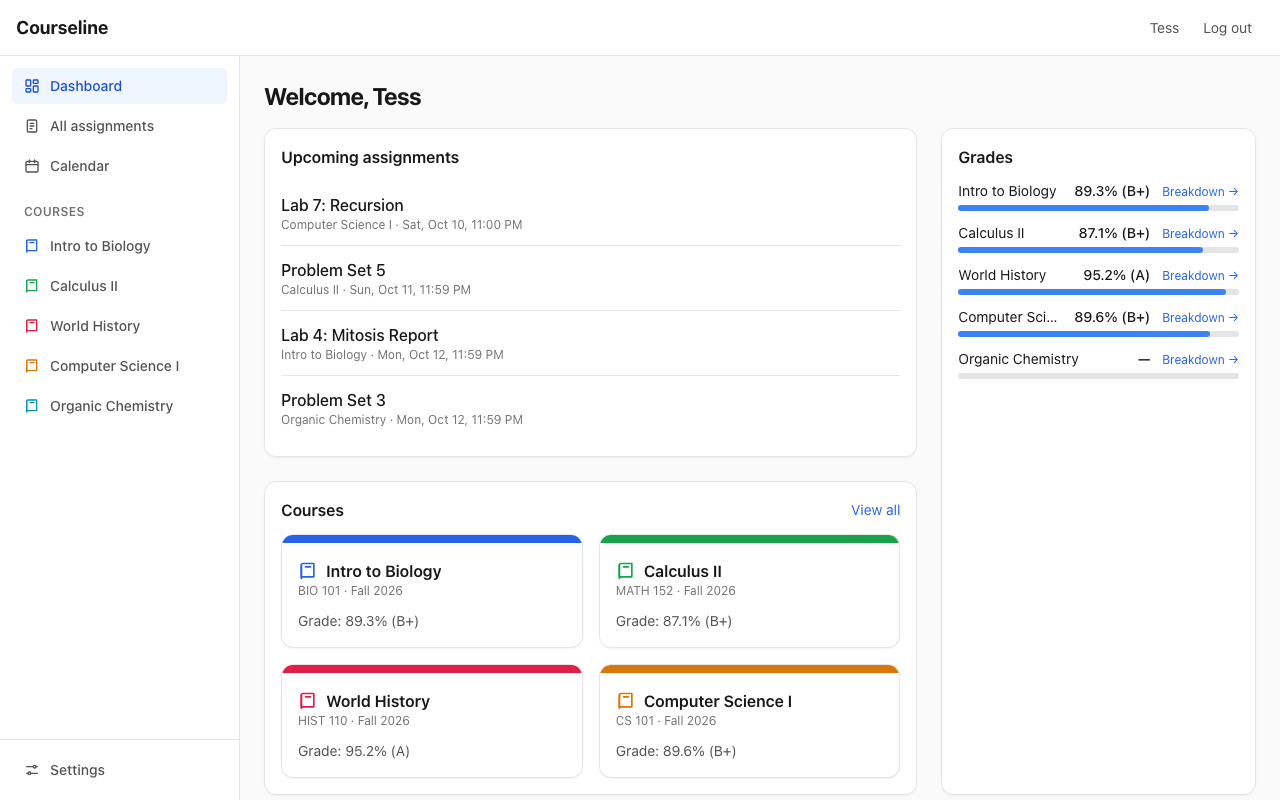
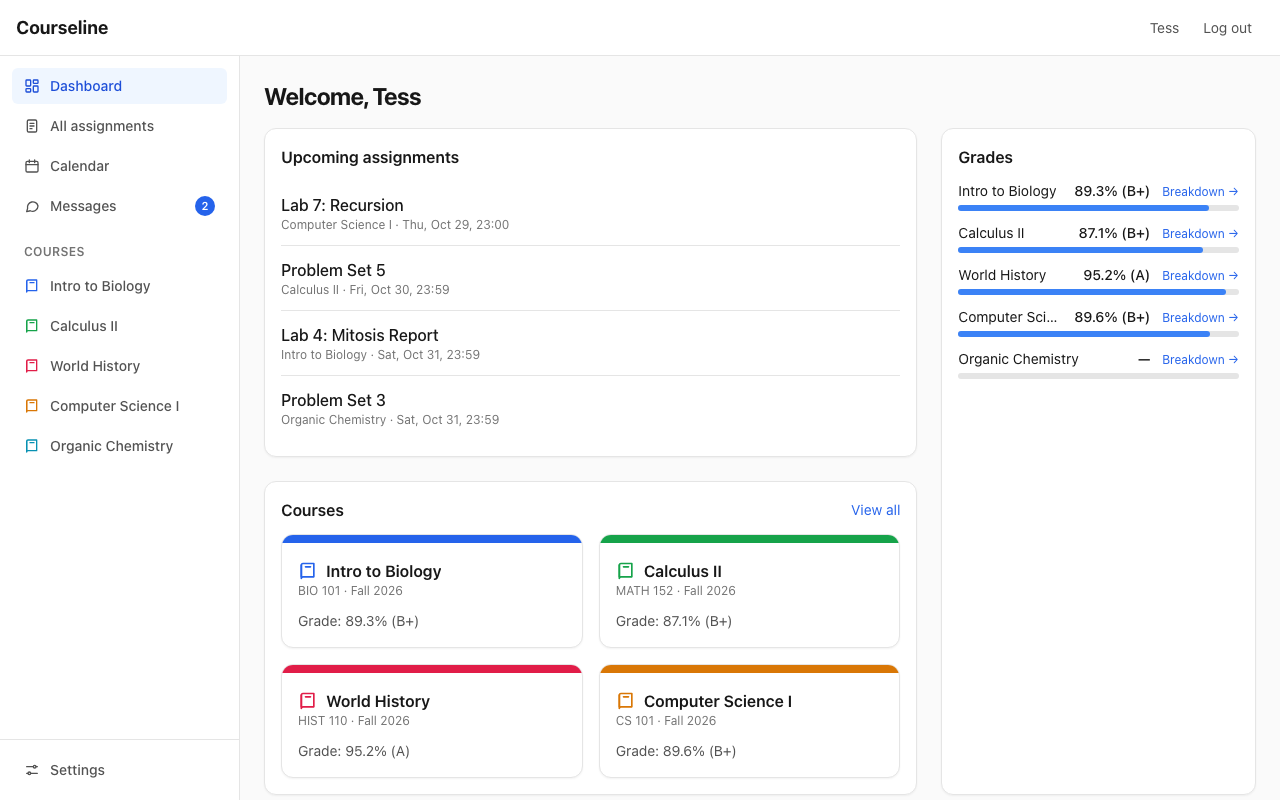
README: retake screenshots, add Messages and spreadsheet viewer, explain the two editions

diff --git a/README.md b/README.md
@@ -18,12 +18,15 @@ second way in. Both have every other feature. The only difference is [`edition.j
 - **Course pages and modules in one list.** Collapsible, reorderable, remembered per course, so a course looks the same
   whether the teacher built it from Pages or from Modules.
 - **In-app file viewer.** PDF, Word, Excel, PowerPoint, images and code open in a viewer with page numbers, typed zoom
-  and an explicit Download button. Nothing downloads unless you press that button.
+  and an explicit Download button. Nothing downloads unless you press that button. Spreadsheets keep their cell
+  colours, fonts, borders, column widths and merged cells, on a white page even in dark mode.
 - **In-depth grades page.** Grade over time, assignment-group breakdown with weights and drop rules, what-if scores
   and a "what do I need to reach X%" calculator.
 - **Messages that feel like texting.** Your Canvas Inbox and sent messages as conversations, each a thread of
-  bubbles with its subject on top; reply with Enter, or start a new message to a course's teachers (Canvas's own
-  "message this teacher" links open it filled in). Works with a token and with the extension.
+  bubbles with its subject on top as the chat name; reply with Enter, attach files (images and files preview inline),
+  or start a new message to a course's teachers and classmates (Canvas's own "message this teacher" links open it
+  filled in). With a token, opening a conversation marks it read and the sidebar shows an unread count. Works with a
+  token and, on `dev`, with the extension.
 - **Dark mode and a custom accent color**, plus a setting to pick which courses to show.
 - **AI export tab in every course**: packs the syllabus, units, pages, assignments and file text into a zip an AI can use as a tutor (stays on your computer).
 - **No access token needed, optionally.** A Chrome-based browser extension (in `extension/`) saves the data your own
@@ -35,11 +38,13 @@ second way in. Both have every other feature. The only difference is [`edition.j
 
 ## Screenshots
 
-Screenshots use made-up course data.
+Screenshots use made-up course data, signed in with a token, so they look the same on `main` and `dev`.
 
-| Course pages and modules in one view | Grades: trend, groups, what-if |
+| Course pages and modules in one view | Grades: trend, groups, class median, what-if |
 |---|---|
 | ![Course pages, dark mode](docs/screenshots/course-pages.png) | ![Grades page](docs/screenshots/grades.png) |
+| **Messages: conversations as chats, with attachments** | **Spreadsheet viewer: the file's own colours and borders** |
+| ![Messages page with a conversation open](docs/screenshots/messages.png) | ![A colour-coded spreadsheet in the in-app viewer, dark mode](docs/screenshots/viewer-xlsx.png) |
 | **PDF viewer** | **PowerPoint viewer** |
 | ![PDF in the in-app viewer](docs/screenshots/viewer-pdf.png) | ![A slide deck in the in-app viewer](docs/screenshots/viewer-slides.png) |
 | **Calendar, colored by course and status** | |
@@ -49,6 +54,8 @@ Developer documentation (architecture, every file, how to change anything, known
 **[DEVELOPER_GUIDE.md](DEVELOPER_GUIDE.md)**.
 
 ## Use it without a token
+
+> **`dev` branch only.** The API-token edition on `main` has no extension support; check out `dev` to use this.
 
 Canvas is making access tokens harder to get, so Courseline can also work from the browser extension in `extension/`.
 It works in Chrome, Arc, Edge, Brave and other Chromium browsers.
@@ -133,8 +140,9 @@ in to Canvas).
 - Each person uses their **own** token. Revoke tokens you no longer need (Settings → Approved Integrations).
 - Never commit `.env`. It is in `.gitignore`.
 - The token is only ever sent to the Canvas address you entered, over https (an `http://` address is upgraded), and
-  never to file storage or any other host. Instructor HTML and spreadsheet cells are sanitized before display.
-- The browser extension keeps nothing until you save your Canvas address, never saves credentials, email addresses
+  never to file storage or any other host. Instructor HTML is sanitized before display; spreadsheet cells and
+  messages are shown as plain text (links only when they are http or https).
+- (`dev` only) The browser extension keeps nothing until you save your Canvas address, never saves credentials, email addresses
   or capability links, and only takes commands from the Courseline app running on `localhost`. The full list of known
   risks is in [DEVELOPER_GUIDE.md §9](DEVELOPER_GUIDE.md#9-security-model).
 
@@ -142,7 +150,7 @@ in to Canvas).
 
 In day-to-day use by the author on real school courses. Covered by automated tests: the API client (pagination, error
 mapping, downloads, file upload), grade calculation, HTML sanitizing, the data cache, accent colors, the submission
-form, and a smoke test that renders every screen against a fake Canvas. The screens and the file viewer were also checked in a real browser, in light and dark mode and at phone width.
+form, messages, spreadsheet formatting, the API-token edition's sign-in, and a smoke test that renders every screen against a fake Canvas. The screens and the file viewer were also checked in a real browser, in light and dark mode and at phone width.
 
 Canvas installations differ a little between schools. If you use this at a new school, try a submission on a throwaway
 assignment first. If your school's file storage refuses browser uploads, the app says so and points you to "Submit in
